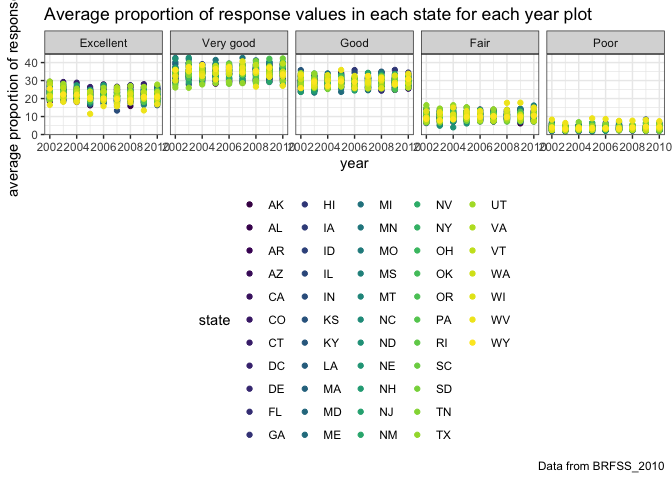
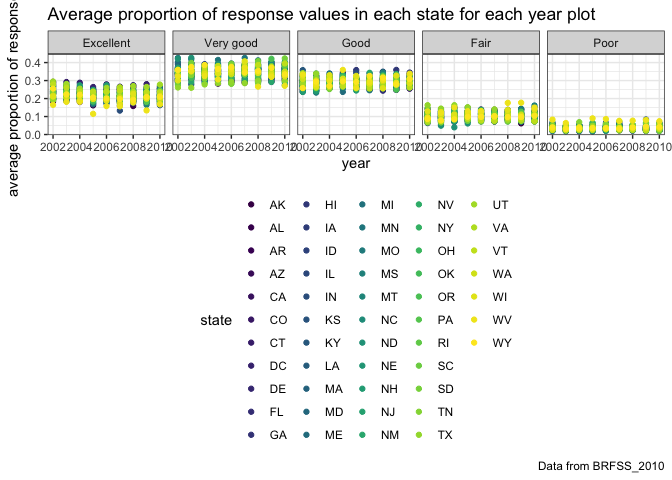
Proportions were fixed for problem 1 after receiving feedback from HW2 (with permission from Dr. Goldsmith)

diff --git a/p8105_hw3_tj2383.md b/p8105_hw3_tj2383.md
@@ -81,16 +81,17 @@ brfss_data %>%
   janitor::clean_names() %>% 
   select(year, excellent, locationabbr) %>% 
   filter(!is.na(excellent) & locationabbr == "NY" & (year == "2002" | year == "2006" | year == "2010")) %>%
+  mutate(prop_excellent = excellent / 100) %>% 
   group_by(year) %>% 
-  summarize(mean_proportion_excellent = mean(excellent), sd_proportion_excellent = sd(excellent)) %>% 
+  summarize(mean_proportion_excellent = mean(prop_excellent), sd_proportion_excellent = sd(prop_excellent)) %>% 
   knitr::kable()
 ```
 
 |  year|  mean\_proportion\_excellent|  sd\_proportion\_excellent|
 |-----:|----------------------------:|--------------------------:|
-|  2002|                     24.04000|                   4.486424|
-|  2006|                     22.53333|                   4.000833|
-|  2010|                     22.70000|                   3.567212|
+|  2002|                    0.2404000|                  0.0448642|
+|  2006|                    0.2253333|                  0.0400083|
+|  2010|                    0.2270000|                  0.0356721|
 
 This table shows that the mean proportion of "Excellent" responses decreased from 2002 to 2006 but then remained relatively stable from 2006 to 2010. The standard deviation of the proportion of "Excellent" responses slightly decreased from 2002 to 2006 to 2010.
 
@@ -98,10 +99,10 @@ In this code chunk I compute the average proportion in each response category (t
 
 ``` r
 brfss_data %>% 
-  select(year, locationabbr, response, data_value) %>% 
+  mutate(prop = data_value / 100) %>% 
   group_by(year, locationabbr, response) %>% 
-  summarize(mean_response = mean(data_value)) %>% 
-  ggplot(aes(x = year, y = mean_response, color = locationabbr)) + 
+  summarize(mean_response_prop = mean(prop)) %>% 
+  ggplot(aes(x = year, y = mean_response_prop, color = locationabbr)) + 
   geom_point() +
   facet_grid(~response) +
   labs(
